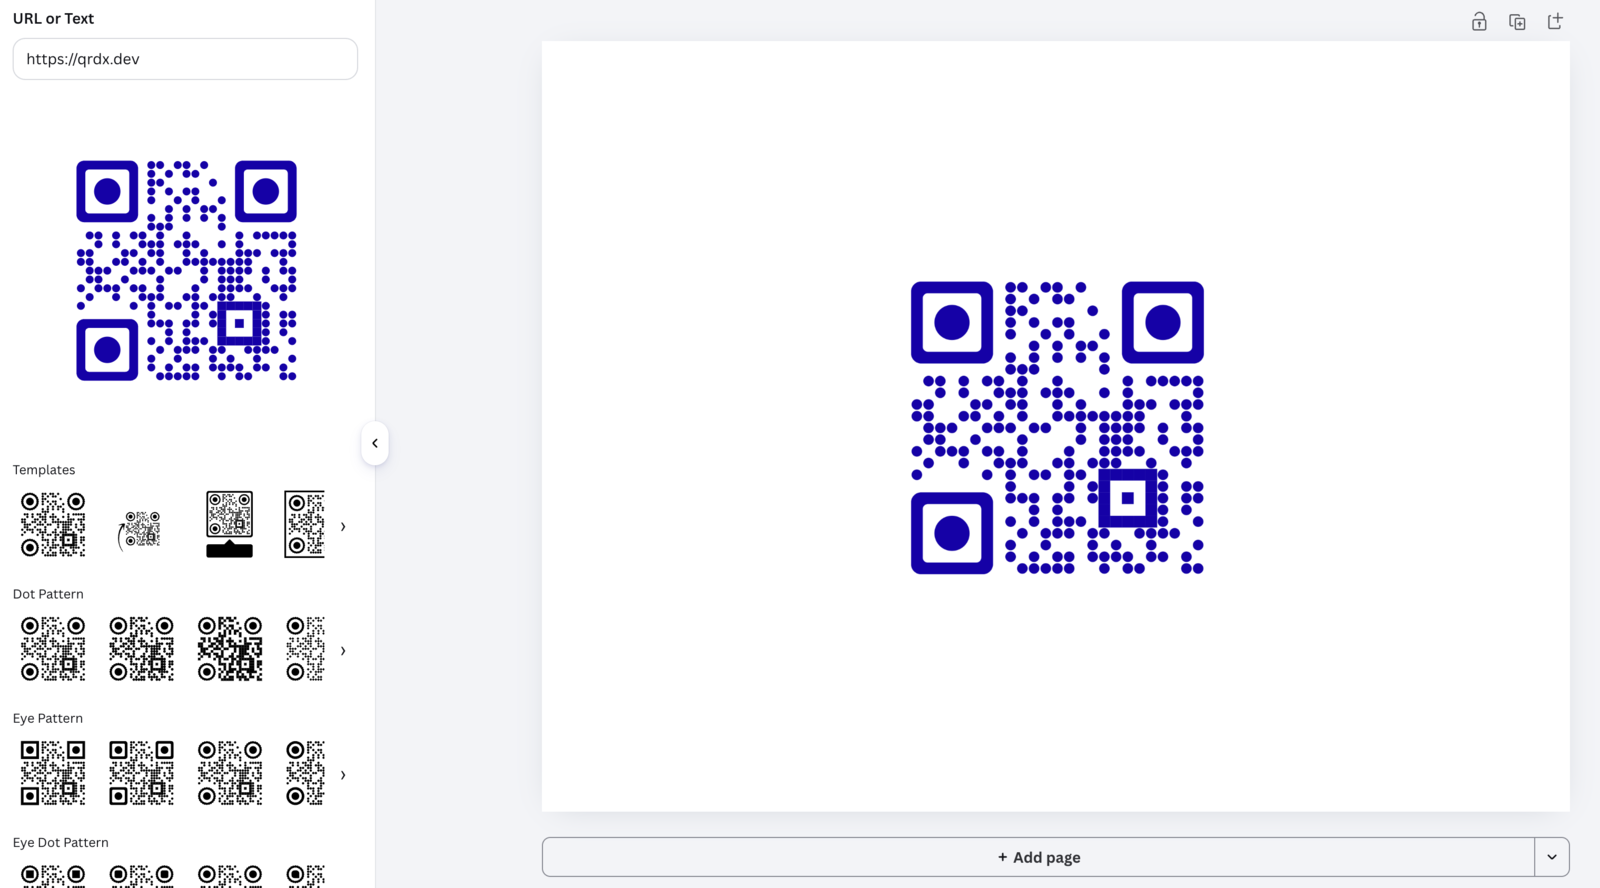
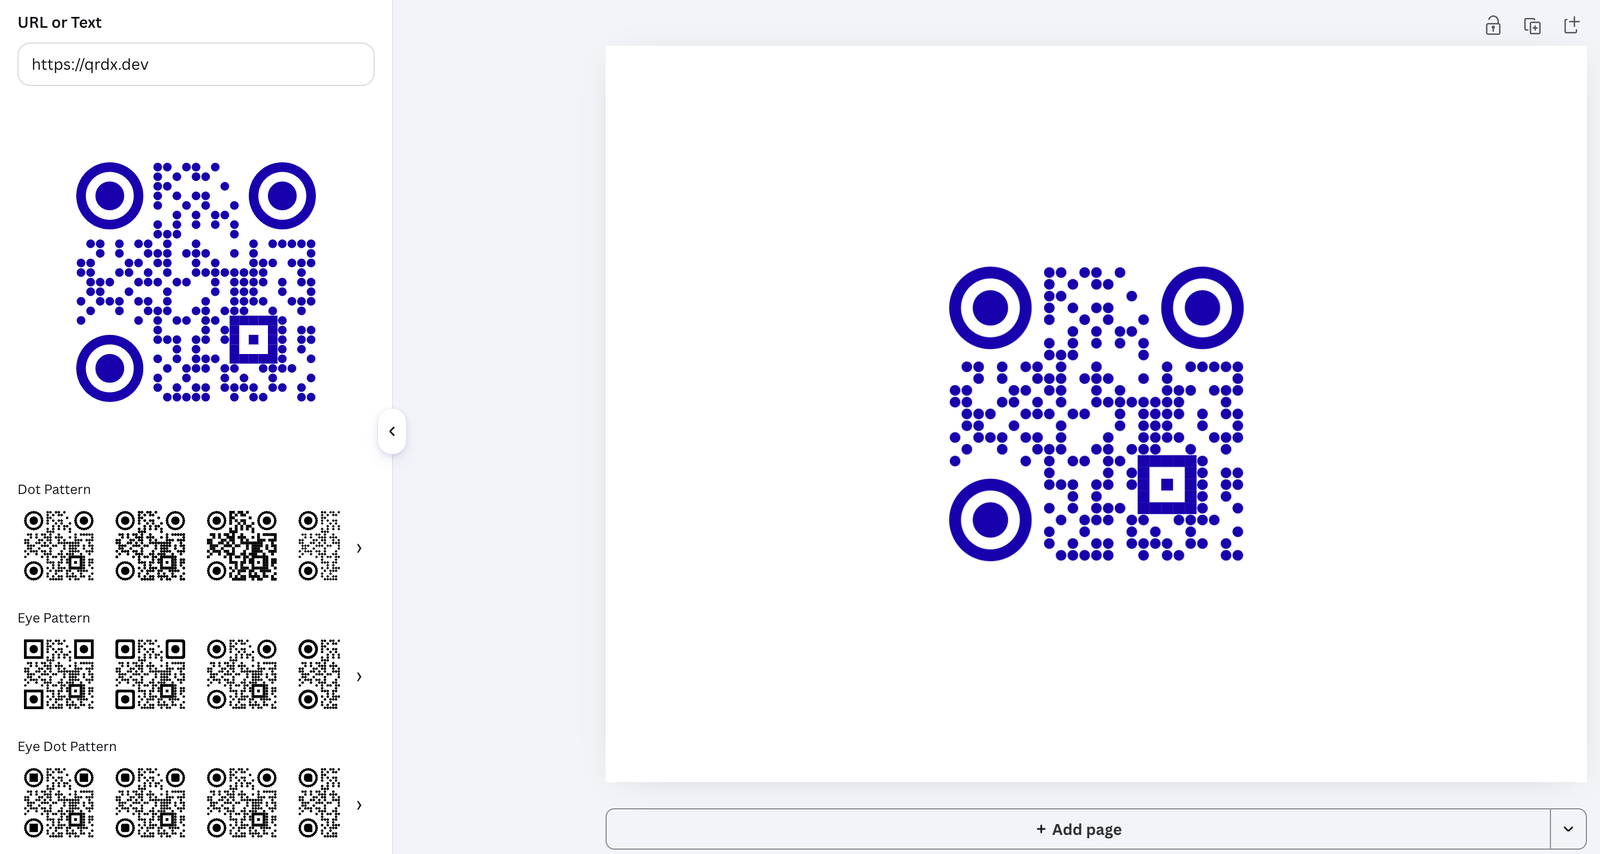
/plugins: Canva screenshot without the Templates row
#819 removed the Canva app's Templates row; the old capture still showed it.
New capture from main 8b7e2847d: the app's panel (URL, preview, dot, eye
and eye-dot pattern pickers) next to the code it placed on the page.
1600x854 lossless WebP; every code in it decodes to https://qrdx.dev.

diff --git a/apps/app/app/[lang]/(home)/plugins/plugin-data.ts b/apps/app/app/[lang]/(home)/plugins/plugin-data.ts
@@ -138,11 +138,9 @@ export const PLUGINS: PluginInfo[] = [
     sourceUrl: `${REPO}/tree/main/plugins/canva`,
     shots: [
       {
-        // This capture still shows the app's Templates row: replace the file
-        // (and its size here) once templates are gone from the app.
         src: `${SHOTS}/canva-editor.webp`,
         width: 1600,
-        height: 888,
+        height: 854,
         alt: "The QRdx app in Canva's side panel, with the URL, a preview and pattern thumbnails, next to a design with the code on its page.",
         caption: "Style the code in the side panel and add it to your page.",
       },
